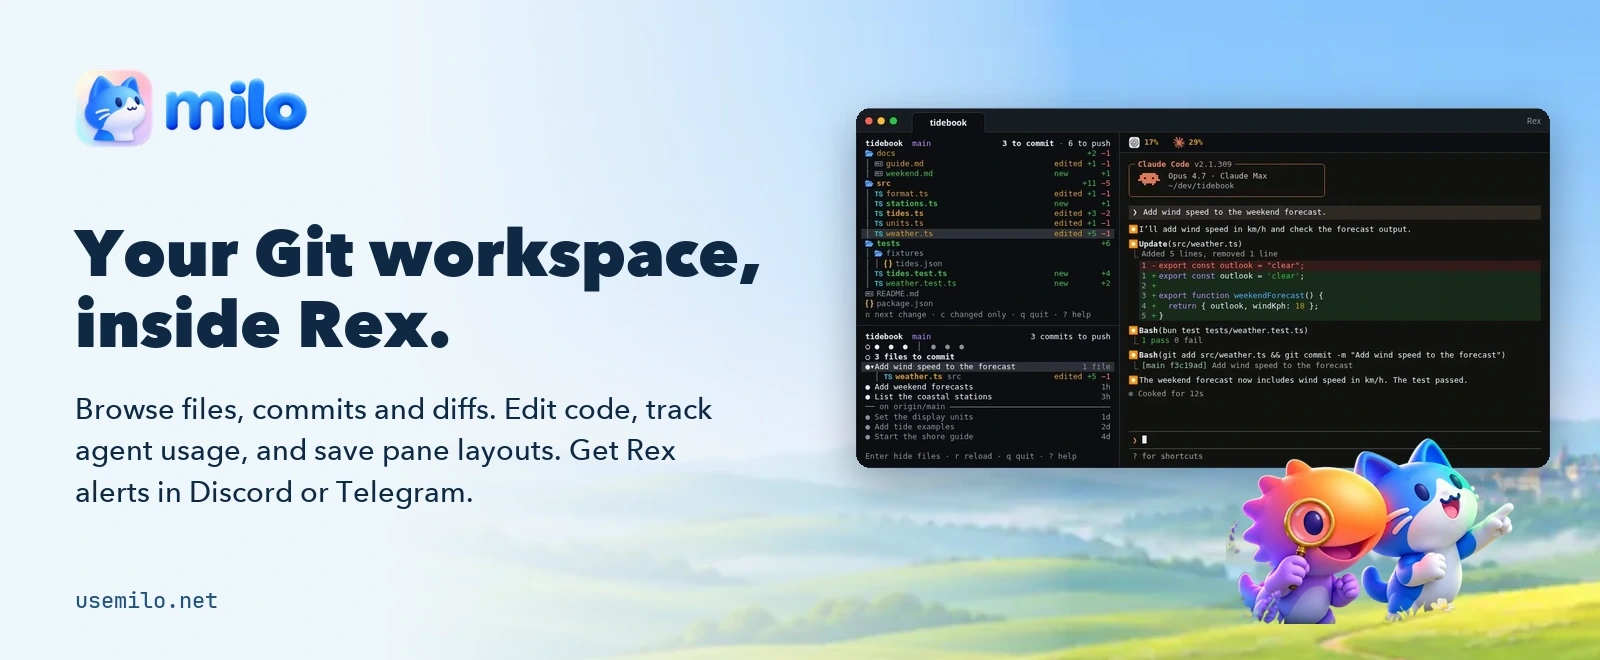
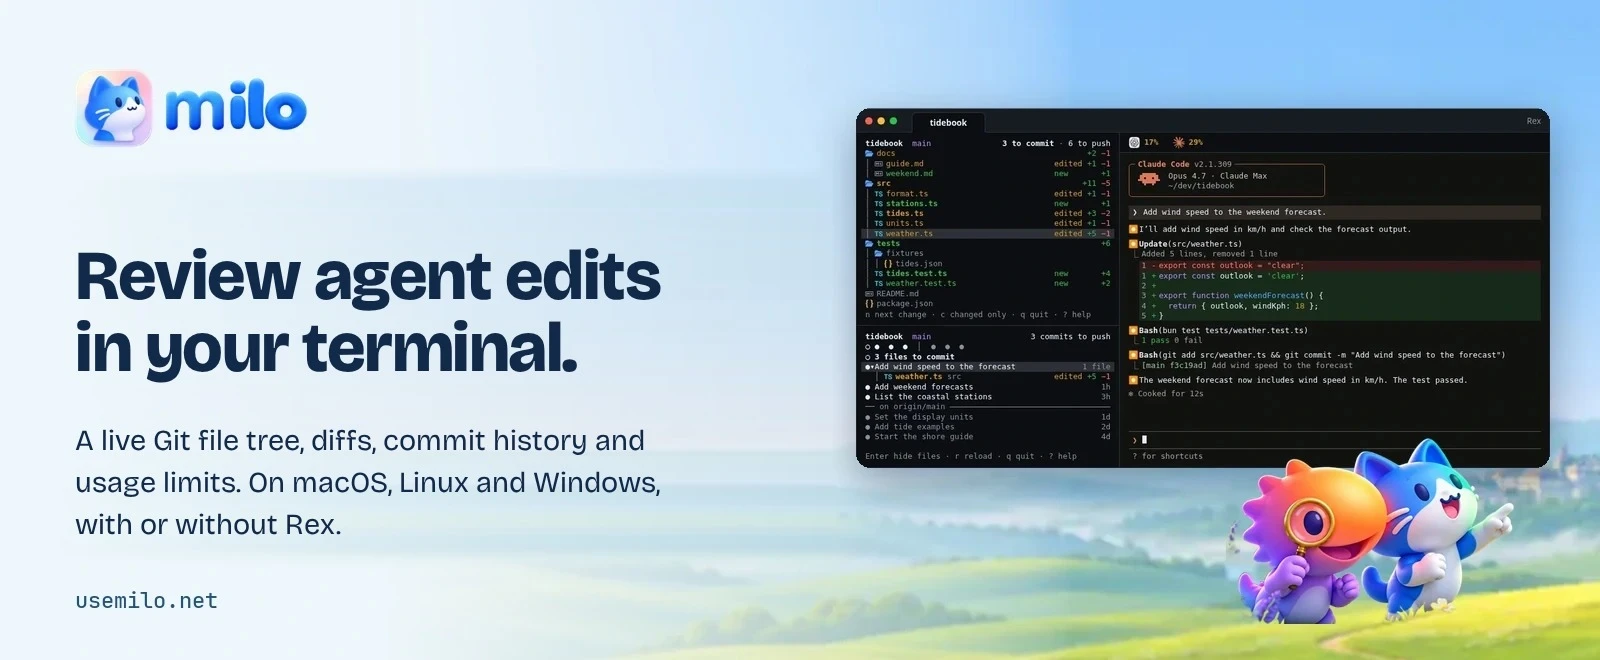
Make Milo discoverable as a standalone terminal Git tool (#141)
* Describe Milo as a standalone terminal Git tool and add an /install/ page

* Build /install/ from a generated copy inside site/

* Keep the previous social preview at its original URL

Changed region(s): [[0.0312, 0.3333, 0.5, 0.5758], [0.0312, 0.6061, 0.4688, 0.8182], [0.3125, 0.7879, 0.4375, 0.8485]]

diff --git a/site/src/install-guide.ts b/site/src/install-guide.ts
@@ -1,0 +1,89 @@
+import { readFileSync } from 'node:fs';
+import { join } from 'node:path';
+
+export type Inline = { text: string; code?: boolean; href?: string };
+export type Block =
+  | { type: 'paragraph'; inline: Inline[] }
+  | { type: 'code'; lang: string; text: string }
+  | { type: 'heading'; level: 2 | 3; id: string; text: string };
+
+const source = 'https://github.com/mcc0x/milo/blob/main/docs/setup.md';
+
+function inline(text: string, where: string): Inline[] {
+  const parts: Inline[] = [];
+  const token = /`([^`]+)`|\[([^\]]+)\]\(([^)\s]+)\)/g;
+  let last = 0;
+  for (const match of text.matchAll(token)) {
+    if (match.index > last) parts.push({ text: text.slice(last, match.index) });
+    if (match[1] !== undefined) {
+      parts.push({ text: match[1], code: true });
+    } else {
+      const href = new URL(match[3], source).href;
+      if (!href.startsWith('https://')) throw new Error(`docs/setup.md ${where}: unsupported link ${match[3]}`);
+      parts.push({ text: match[2], href });
+    }
+    last = match.index + match[0].length;
+  }
+  parts.push({ text: text.slice(last) });
+  const plain = parts.filter(part => !part.code && !part.href).map(part => part.text).join('');
+  if (/[`*_<>[\]]|!\(/.test(plain.replaceAll(/\b\w+_\w+\b/g, ''))) {
+    throw new Error(`docs/setup.md ${where}: Markdown the install page does not render: ${text}`);
+  }
+  return parts.filter(part => part.text !== '');
+}
+
+export function slug(text: string) {
+  return text.toLowerCase().replaceAll(/[^a-z0-9 -]/g, '').trim().replaceAll(' ', '-');
+}
+
+/** Reads the install section of docs/setup.md (copied to src/generated by bundle-docs.py) and refuses any construct it cannot render, so a step is never dropped silently. */
+export function installGuide(markdown = readFileSync(join(process.cwd(), 'src', 'generated', 'install.md'), 'utf8')): Block[] {
+  const lines = markdown.replaceAll('\r\n', '\n').split('\n');
+  const start = lines.indexOf('## Install');
+  if (start < 0) throw new Error('generated install.md has no "## Install" section');
+  const end = lines.findIndex((line, index) => index > start && /^## /.test(line));
+  const section = lines.slice(start + 1, end < 0 ? undefined : end);
+  const blocks: Block[] = [];
+  const ids = new Set<string>();
+  let paragraph: string[] = [];
+  const flush = () => {
+    if (paragraph.length) blocks.push({ type: 'paragraph', inline: inline(paragraph.join(' '), paragraph[0]) });
+    paragraph = [];
+  };
+  for (let i = 0; i < section.length; i++) {
+    const line = section[i];
+    const fence = /^```(\w*)$/.exec(line);
+    if (fence) {
+      flush();
+      const close = section.indexOf('```', i + 1);
+      if (close < 0) throw new Error('docs/setup.md: unclosed code fence in the install section');
+      blocks.push({ type: 'code', lang: fence[1], text: section.slice(i + 1, close).join('\n') });
+      i = close;
+      continue;
+    }
+    const heading = /^(#{3,4}) (.+)$/.exec(line);
+    if (heading) {
+      flush();
+      const id = slug(heading[2]);
+      if (!id || ids.has(id)) throw new Error(`docs/setup.md: duplicate or empty heading anchor for "${heading[2]}"`);
+      ids.add(id);
+      blocks.push({ type: 'heading', level: heading[1].length === 3 ? 2 : 3, id, text: heading[2] });
+      continue;
+    }
+    if (line.trim() === '') {
+      flush();
+      continue;
+    }
+    if (/^(#|\s*[-*+] |\s*\d+\. |\||>|<|!\[)/.test(line)) throw new Error(`docs/setup.md: install section line the page does not render: ${line}`);
+    paragraph.push(line);
+  }
+  flush();
+  for (const os of ['macOS', 'Linux', 'Windows']) {
+    const at = blocks.findIndex(block => block.type === 'heading' && block.text === os);
+    const next = blocks.findIndex((block, index) => index > at && block.type === 'heading' && block.level === 2);
+    if (at < 0 || !blocks.slice(at, next < 0 ? undefined : next).some(block => block.type === 'code')) {
+      throw new Error(`docs/setup.md: the install section needs a ${os} heading with a command`);
+    }
+  }
+  return blocks;
+}

diff --git a/site/src/app/install/page.tsx b/site/src/app/install/page.tsx
@@ -1,0 +1,58 @@
+import type { Metadata } from 'next';
+import { Fragment } from 'react';
+import '../fonts';
+import '../../install.css';
+import { installGuide } from '../../install-guide';
+import type { Inline } from '../../install-guide';
+import { SiteLink } from '../site-link';
+
+const title = 'Install Milo — macOS, Linux and Windows';
+const description = 'Install Milo 0.1.9 on Apple Silicon macOS, Linux x86-64 (glibc) or native Windows x64: the commands, release files, checksums and prerequisites for each.';
+const image = {
+  url: 'https://usemilo.net/milo-social.jpg',
+  alt: 'Milo: review agent edits in your terminal. A file tree, commit history and agent session beside the Milo and Rex mascots.',
+};
+
+export const metadata: Metadata = {
+  title,
+  description,
+  alternates: { canonical: 'https://usemilo.net/install/' },
+  openGraph: { type: 'website', url: 'https://usemilo.net/install/', title, description, images: { ...image, type: 'image/jpeg', width: 1280, height: 640 } },
+  twitter: { card: 'summary_large_image', title, description, images: image },
+};
+
+function Text({ parts }: { parts: Inline[] }) {
+  return parts.map((part, index) => {
+    if (part.code) return <code key={index} translate="no">{part.text}</code>;
+    if (part.href) return <SiteLink key={index} href={part.href}>{part.text}</SiteLink>;
+    return <Fragment key={index}>{part.text}</Fragment>;
+  });
+}
+
+export default function Install() {
+  const blocks = installGuide();
+  const first = blocks.findIndex(block => block.type === 'heading');
+  const toc = blocks.flatMap(block => (block.type === 'heading' && block.level === 2 ? [block] : []));
+  return (
+    <main className="install">
+      <a className="install-home" href="/">← Milo</a>
+      <h1>Install Milo</h1>
+      <div className="install-lead">
+        {blocks.slice(0, first).map((block, index) => block.type === 'paragraph' && <p key={index}><Text parts={block.inline} /></p>)}
+        <p>Milo runs on its own in any Git project. You don’t need Rex, a browser or an account. These steps come from the <SiteLink href="https://github.com/mcc0x/milo/blob/main/docs/setup.md#install">setup guide</SiteLink> in the repository and describe the published v0.1.9 release.</p>
+      </div>
+      <nav aria-label="On this page" className="install-toc">
+        <ul>{toc.map(block => <li key={block.id}><a href={`#${block.id}`}>{block.text}</a></li>)}</ul>
+      </nav>
+      {blocks.slice(first).map((block, index) => {
+        if (block.type === 'heading') {
+          const Heading = block.level === 2 ? 'h2' : 'h3';
+          return <Heading key={index} id={block.id}><a href={`#${block.id}`}>{block.text}</a></Heading>;
+        }
+        if (block.type === 'code') return <pre key={index} tabIndex={0}><code translate="no">{block.text}</code></pre>;
+        return <p key={index}><Text parts={block.inline} /></p>;
+      })}
+      <footer><a href="/">Home</a><a href="/terms/">Terms of Service</a><a href="/privacy/">Privacy Policy</a></footer>
+    </main>
+  );
+}

diff --git a/site/src/app/page.tsx b/site/src/app/page.tsx
@@ -21,13 +21,13 @@ function FeatureIcon({ name }: { name: string }) {
   return <img className="milo-feature-icon" src={`/icons/milo/${name}.webp`} width={48} height={48} loading="lazy" decoding="async" alt="" />;
 }
 
-const title = 'milo — The little things that make Rex feel like home';
-const description = 'Review changes, edit files, and check agent usage in your terminal. In Rex, Milo can also remember your layout and send alerts to Discord or Telegram.';
-const setup = 'https://github.com/mcc0x/milo/blob/main/docs/setup.md';
+const title = 'Milo — Review Git diffs and agent edits in your terminal';
+const description = 'Review agent edits in your terminal with a live Git file tree, diffs, commit history and usage limits. For macOS, Linux and Windows; standalone or in Rex.';
+const subtext = 'Review changes, edit files, and check agent usage in your terminal. In Rex, Milo can also remember your layout and send alerts to Discord or Telegram.';
 const assets = 'https://github.com/mcc0x/milo/releases/download/v0.1.9';
 const preview = {
-  url: 'https://usemilo.net/milo-preview.jpg',
-  alt: 'Milo — Your Git workspace, inside Rex. A file tree, commit history and agent session sit above the Milo and Rex mascots.',
+  url: 'https://usemilo.net/milo-social.jpg',
+  alt: 'Milo: review agent edits in your terminal. A file tree, commit history and agent session beside the Milo and Rex mascots.',
 };
 
 export const metadata: Metadata = {
@@ -79,7 +79,7 @@ export default function Home() {
           <div className="intro">
             <div className="intro-copy">
               <p className="description">The little things that make <SiteLink className="rex" href="https://www.superlogical.com/rex"><img src={rex.src} width="72" height="72" alt="" />Rex</SiteLink> feel like home.</p>
-              <p className="subtext">{description}</p>
+              <p className="subtext">{subtext}</p>
             </div>
             <div className="hero-actions">
               <a className="hero-action hero-action-primary" href="#install">
@@ -103,7 +103,7 @@ export default function Home() {
         </section>
         <section className="downloads" id="install" aria-labelledby="install-title">
           <h2 id="install-title">Install Milo</h2>
-          <p className="feature-intro">Start in your terminal. No Rex required. See the <SiteLink href={`${setup}#install`}>installation guide</SiteLink>.</p>
+          <p className="feature-intro">Start in your terminal. No Rex required. See the <a href="/install/">installation guide</a>.</p>
           <div className="feature-grid">
             <article className="feature platform" id="install-macos" tabIndex={-1}>
               <FeatureIcon name="macos" />

diff --git a/site/tests/install-guide.test.ts b/site/tests/install-guide.test.ts
@@ -1,0 +1,33 @@
+import { describe, expect, test } from 'bun:test';
+import { installGuide, slug } from '../src/install-guide';
+
+describe('install guide', () => {
+  test('renders every platform and command from docs/setup.md', () => {
+    const blocks = installGuide();
+    const headings = blocks.flatMap(block => (block.type === 'heading' ? [block.id] : []));
+    expect(headings).toEqual(expect.arrayContaining(['macos', 'linux', 'windows']));
+    const code = blocks.flatMap(block => (block.type === 'code' ? [block.text] : [])).join('\n');
+    expect(code).toContain('brew install mcc0x/milo/milo');
+    expect(code).toContain('sh install-linux.sh');
+    expect(code).toContain('install-windows.ps1');
+  });
+
+  test('every link in the install section is absolute https', () => {
+    for (const block of installGuide()) {
+      if (block.type !== 'paragraph') continue;
+      for (const part of block.inline) if (part.href) expect(part.href).toStartWith('https://');
+    }
+  });
+
+  test('refuses Markdown it cannot render', () => {
+    const doc = (body: string) => `## Install\n\n### macOS\n\n${body}\n\n\`\`\`sh\nx\n\`\`\`\n\n### Linux\n\n\`\`\`sh\nx\n\`\`\`\n\n### Windows\n\n\`\`\`sh\nx\n\`\`\`\n`;
+    expect(() => installGuide(doc('- a list item'))).toThrow();
+    expect(() => installGuide(doc('some **bold** text'))).toThrow();
+    expect(() => installGuide(doc('plain text'))).not.toThrow();
+    expect(() => installGuide('## Install\n\n### macOS\n')).toThrow();
+  });
+
+  test('anchors match GitHub heading ids', () => {
+    expect(slug('When Homebrew and Milo disagree')).toBe('when-homebrew-and-milo-disagree');
+  });
+});

diff --git a/site/src/install.css b/site/src/install.css
@@ -1,0 +1,15 @@
+body:has(.install) { margin: 0; background: #edf4fa; color: #182f42; font: 400 1rem/1.6 Bricolage, system-ui, sans-serif; }
+.install { box-sizing: border-box; width: min(100%, 47rem); margin: 0 auto; padding: clamp(1.4rem,5vw,4rem) 1.35rem; }
+.install h1 { margin: 1.2rem 0 .6rem; font-size: clamp(2rem,5vw,3rem); line-height: 1.12; letter-spacing: -.045em; }
+.install h2 { margin: 2.2rem 0 .3rem; font-size: 1.5rem; letter-spacing: -.03em; scroll-margin-top: 1rem; }
+.install h3 { margin: 1.6rem 0 .3rem; font-size: 1.12rem; scroll-margin-top: 1rem; }
+.install p { margin: .5rem 0; }
+.install a { color: #204e80; text-underline-offset: .18em; }
+.install h2 a, .install h3 a { color: inherit; text-decoration: none; }
+.install h2 a:hover, .install h3 a:hover { text-decoration: underline; }
+.install a:focus-visible, .install pre:focus-visible { outline: 3px solid #204e80; outline-offset: 3px; border-radius: .2rem; }
+.install code { font: 500 .9em ui-monospace, SFMono-Regular, Menlo, Consolas, monospace; overflow-wrap: anywhere; }
+.install pre { margin: .7rem 0; padding: .9rem 1rem; overflow-x: auto; background: #12263a; color: #eaf3fb; border-radius: .6rem; line-height: 1.5; }
+.install pre code { overflow-wrap: normal; font-weight: 400; }
+.install-toc ul { display: flex; flex-wrap: wrap; gap: .4rem 1.2rem; margin: 1rem 0 0; padding: 0; list-style: none; font-weight: 600; }
+.install footer { margin-top: 2.5rem; display: flex; flex-wrap: wrap; gap: 1rem; font-size: .88rem; }

diff --git a/site/src/app/sitemap.ts b/site/src/app/sitemap.ts
@@ -3,5 +3,5 @@ import type { MetadataRoute } from 'next';
 export const dynamic = 'force-static';
 
 export default function sitemap(): MetadataRoute.Sitemap {
-  return ['/', '/terms/', '/privacy/'].map(path => ({ url: `https://usemilo.net${path}` }));
+  return ['/', '/install/', '/terms/', '/privacy/'].map(path => ({ url: `https://usemilo.net${path}` }));
 }

diff --git a/site/bundle-docs.py b/site/bundle-docs.py
@@ -30,9 +30,16 @@ for name in files:
     source, text = published(name)
     parts.append(f'Source: {source}\n\n{text}')
 # The site's index is the checkout's llms.txt, so the two cannot describe different programs.
-outputs = {'llms-full.txt': '\n\n---\n\n'.join(parts), 'llms.txt': published('llms.txt')[1]}
+outputs = {'public/llms-full.txt': '\n\n---\n\n'.join(parts), 'public/llms.txt': published('llms.txt')[1]}
+# The production build sees only site/, so the install page reads this generated copy of the guide's Install section.
+setup = (repo / 'docs/setup.md').read_text(encoding='utf-8').replace('\r\n', '\n')
+install = re.search(r'^## Install\n.*?(?=^## |\Z)', setup, re.S | re.M)
+if not install:
+    raise SystemExit('docs/setup.md has no "## Install" section.')
+outputs['src/generated/install.md'] = install[0].strip()
 for name, text in outputs.items():
-    path = site / 'public' / name
+    path = site / name
+    path.parent.mkdir(parents=True, exist_ok=True)
     content = (text + '\n').encode('utf-8')
     if not args.check:
         path.write_bytes(content)

diff --git a/README.md b/README.md
@@ -1,6 +1,6 @@
 <p align="center">
   <a href="https://usemilo.net">
-    <img src="docs/img/milo-readme-banner.webp" width="960" alt="Milo — Your Git workspace, inside Rex. Browse files, commits and diffs, edit code, track agent usage, save pane layouts, and get alerts in Discord or Telegram.">
+    <img src="docs/img/milo-readme-banner.webp" width="960" alt="Milo: review agent edits in your terminal. A live Git file tree, diffs, commit history and usage limits on macOS, Linux and Windows, with or without Rex.">
   </a>
 </p>
 
@@ -10,6 +10,8 @@
   <a href="Cargo.toml"><img alt="Core CLI: 1 direct dependency" src="https://img.shields.io/badge/core%20CLI-1%20dependency-4178a6"></a>
   <a href="LICENSE"><img alt="License: MIT" src="https://img.shields.io/badge/license-MIT-4178a6"></a>
 </p>
+
+Review agent edits in your terminal: a live Git file tree, diffs, commit history and usage limits. Milo runs on Apple Silicon macOS, Linux x86-64 and native Windows x64, on its own or inside [Rex](https://www.superlogical.com/rex). Saved pane layouts, alert forwarding and Discord presence need a supported Rex session.
 
 ## Install
 
@@ -21,7 +23,7 @@ The [v0.1.9 release](https://github.com/mcc0x/milo/releases/tag/v0.1.9) has stan
 | Linux x86-64, glibc 2.35 or later | [Linux binary and shell installer](docs/setup.md#linux) |
 | Native Windows x64 | [Windows executable and PowerShell installer](docs/setup.md#windows) |
 
-The installers verify the binary against a pinned SHA-256 checksum. See [setup and removal](docs/setup.md#install) for verification, upgrades, uninstalling and source builds, or [Homebrew troubleshooting](docs/setup.md#when-homebrew-and-milo-disagree) if your shell still runs an old copy.
+The installers verify the binary against a pinned SHA-256 checksum. The same steps are on the [install page](https://usemilo.net/install/). See [setup and removal](docs/setup.md#install) for verification, upgrades, uninstalling and source builds, or [Homebrew troubleshooting](docs/setup.md#when-homebrew-and-milo-disagree) if your shell still runs an old copy.
 
 Linux and Windows are released for standalone use. The Rex column below describes what Milo adds in a supported Rex session, not new Rex support on Linux or Windows. The menu bar app and Finder actions are macOS-only. See [Reader media support](docs/panes.md#reading-pictures-video-and-markdown) and the [local browser fallback](docs/setup.md#browser-editor) for platform differences.
 

diff --git a/CONTRIBUTING.md b/CONTRIBUTING.md
@@ -37,7 +37,7 @@ After changing the source or macOS installer, also run `sh tests/install.sh`; fo
 
 Then run the program and look at what you changed. Text checks cannot tell you whether a pane looks right.
 
-When updating the README, guides, agent skill, `llms.txt` or this file, run `python3 site/bundle-docs.py` and commit the refreshed `site/public/llms-full.txt` and `site/public/llms.txt`. CI checks that the published copies match these sources.
+When updating the README, guides, agent skill, `llms.txt` or this file, run `python3 site/bundle-docs.py` and commit the refreshed `site/public/llms-full.txt`, `site/public/llms.txt` and `site/src/generated/install.md`, the copy of the setup guide’s Install section that builds `/install/`. CI checks that the published copies match these sources.
 
 The website in `site/` is a Next.js static export, built with Bun 1.4 and Node.js 26. In that directory, `bun install` and `bun run dev` start it for editing. Before a pull request, run `bun test && bun run build`, then `bun run preview` and look at the built pages in a browser. Railway runs the same build and serves `site/dist` with `site/Caddyfile`.
 
